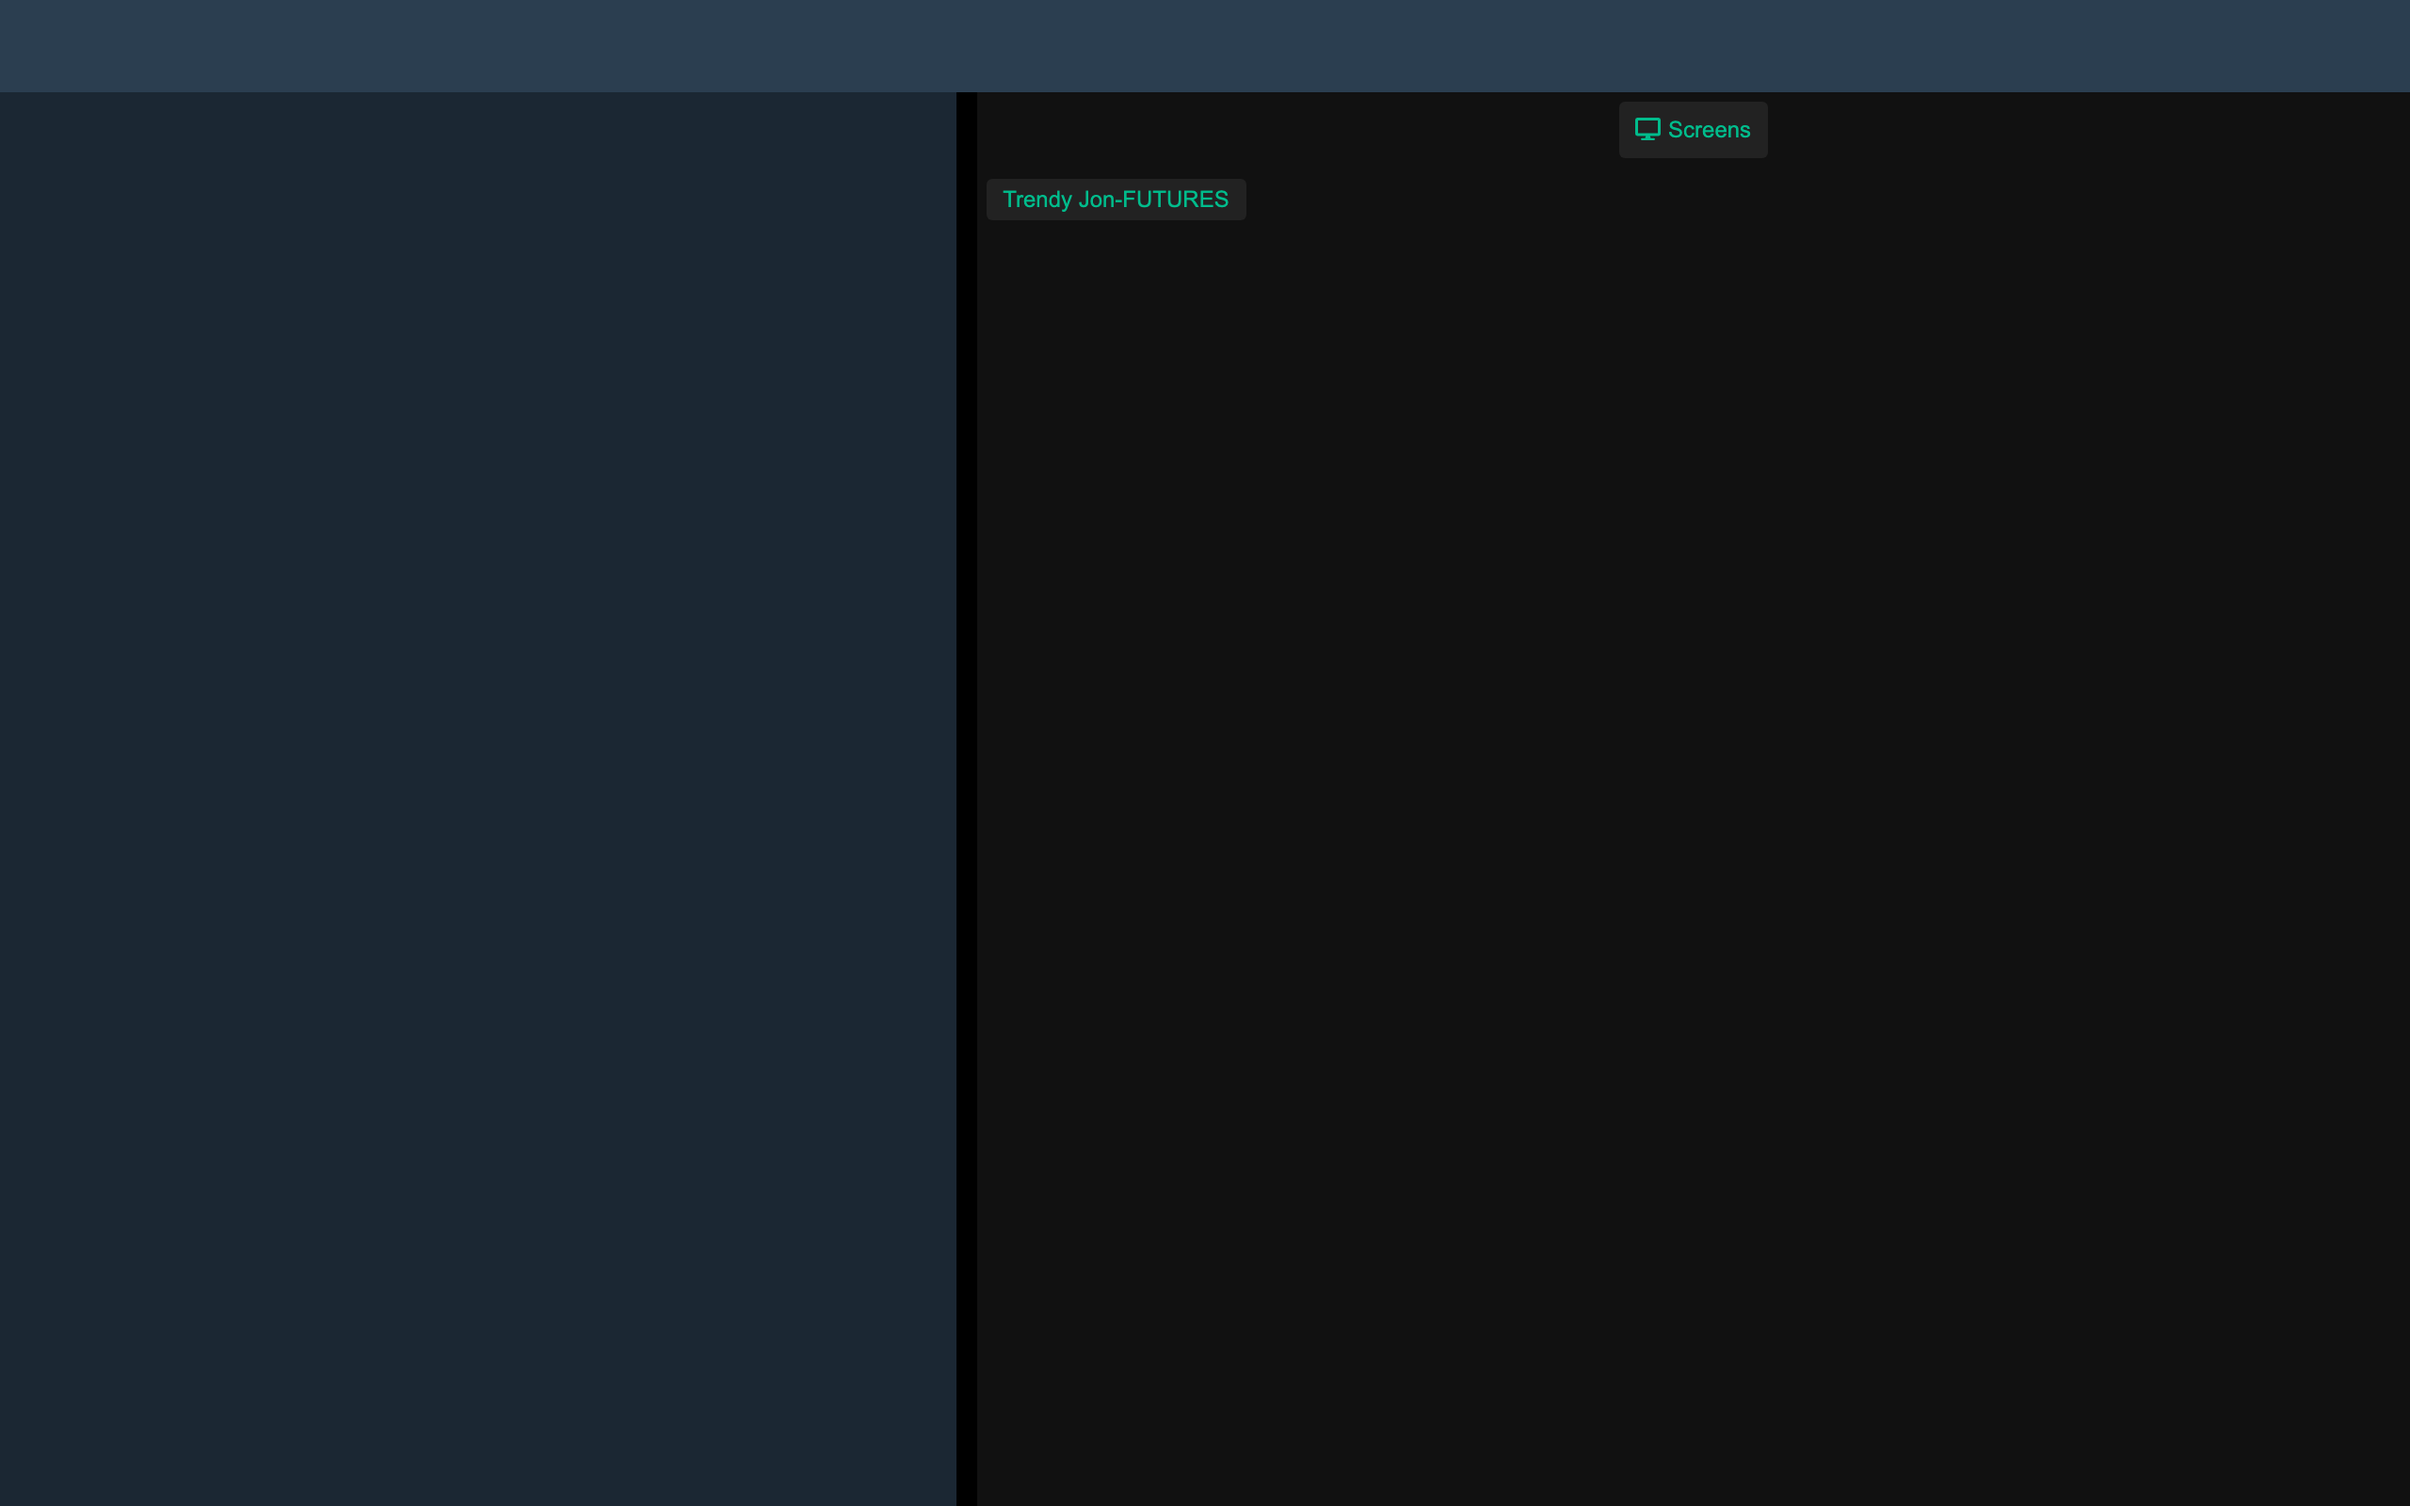
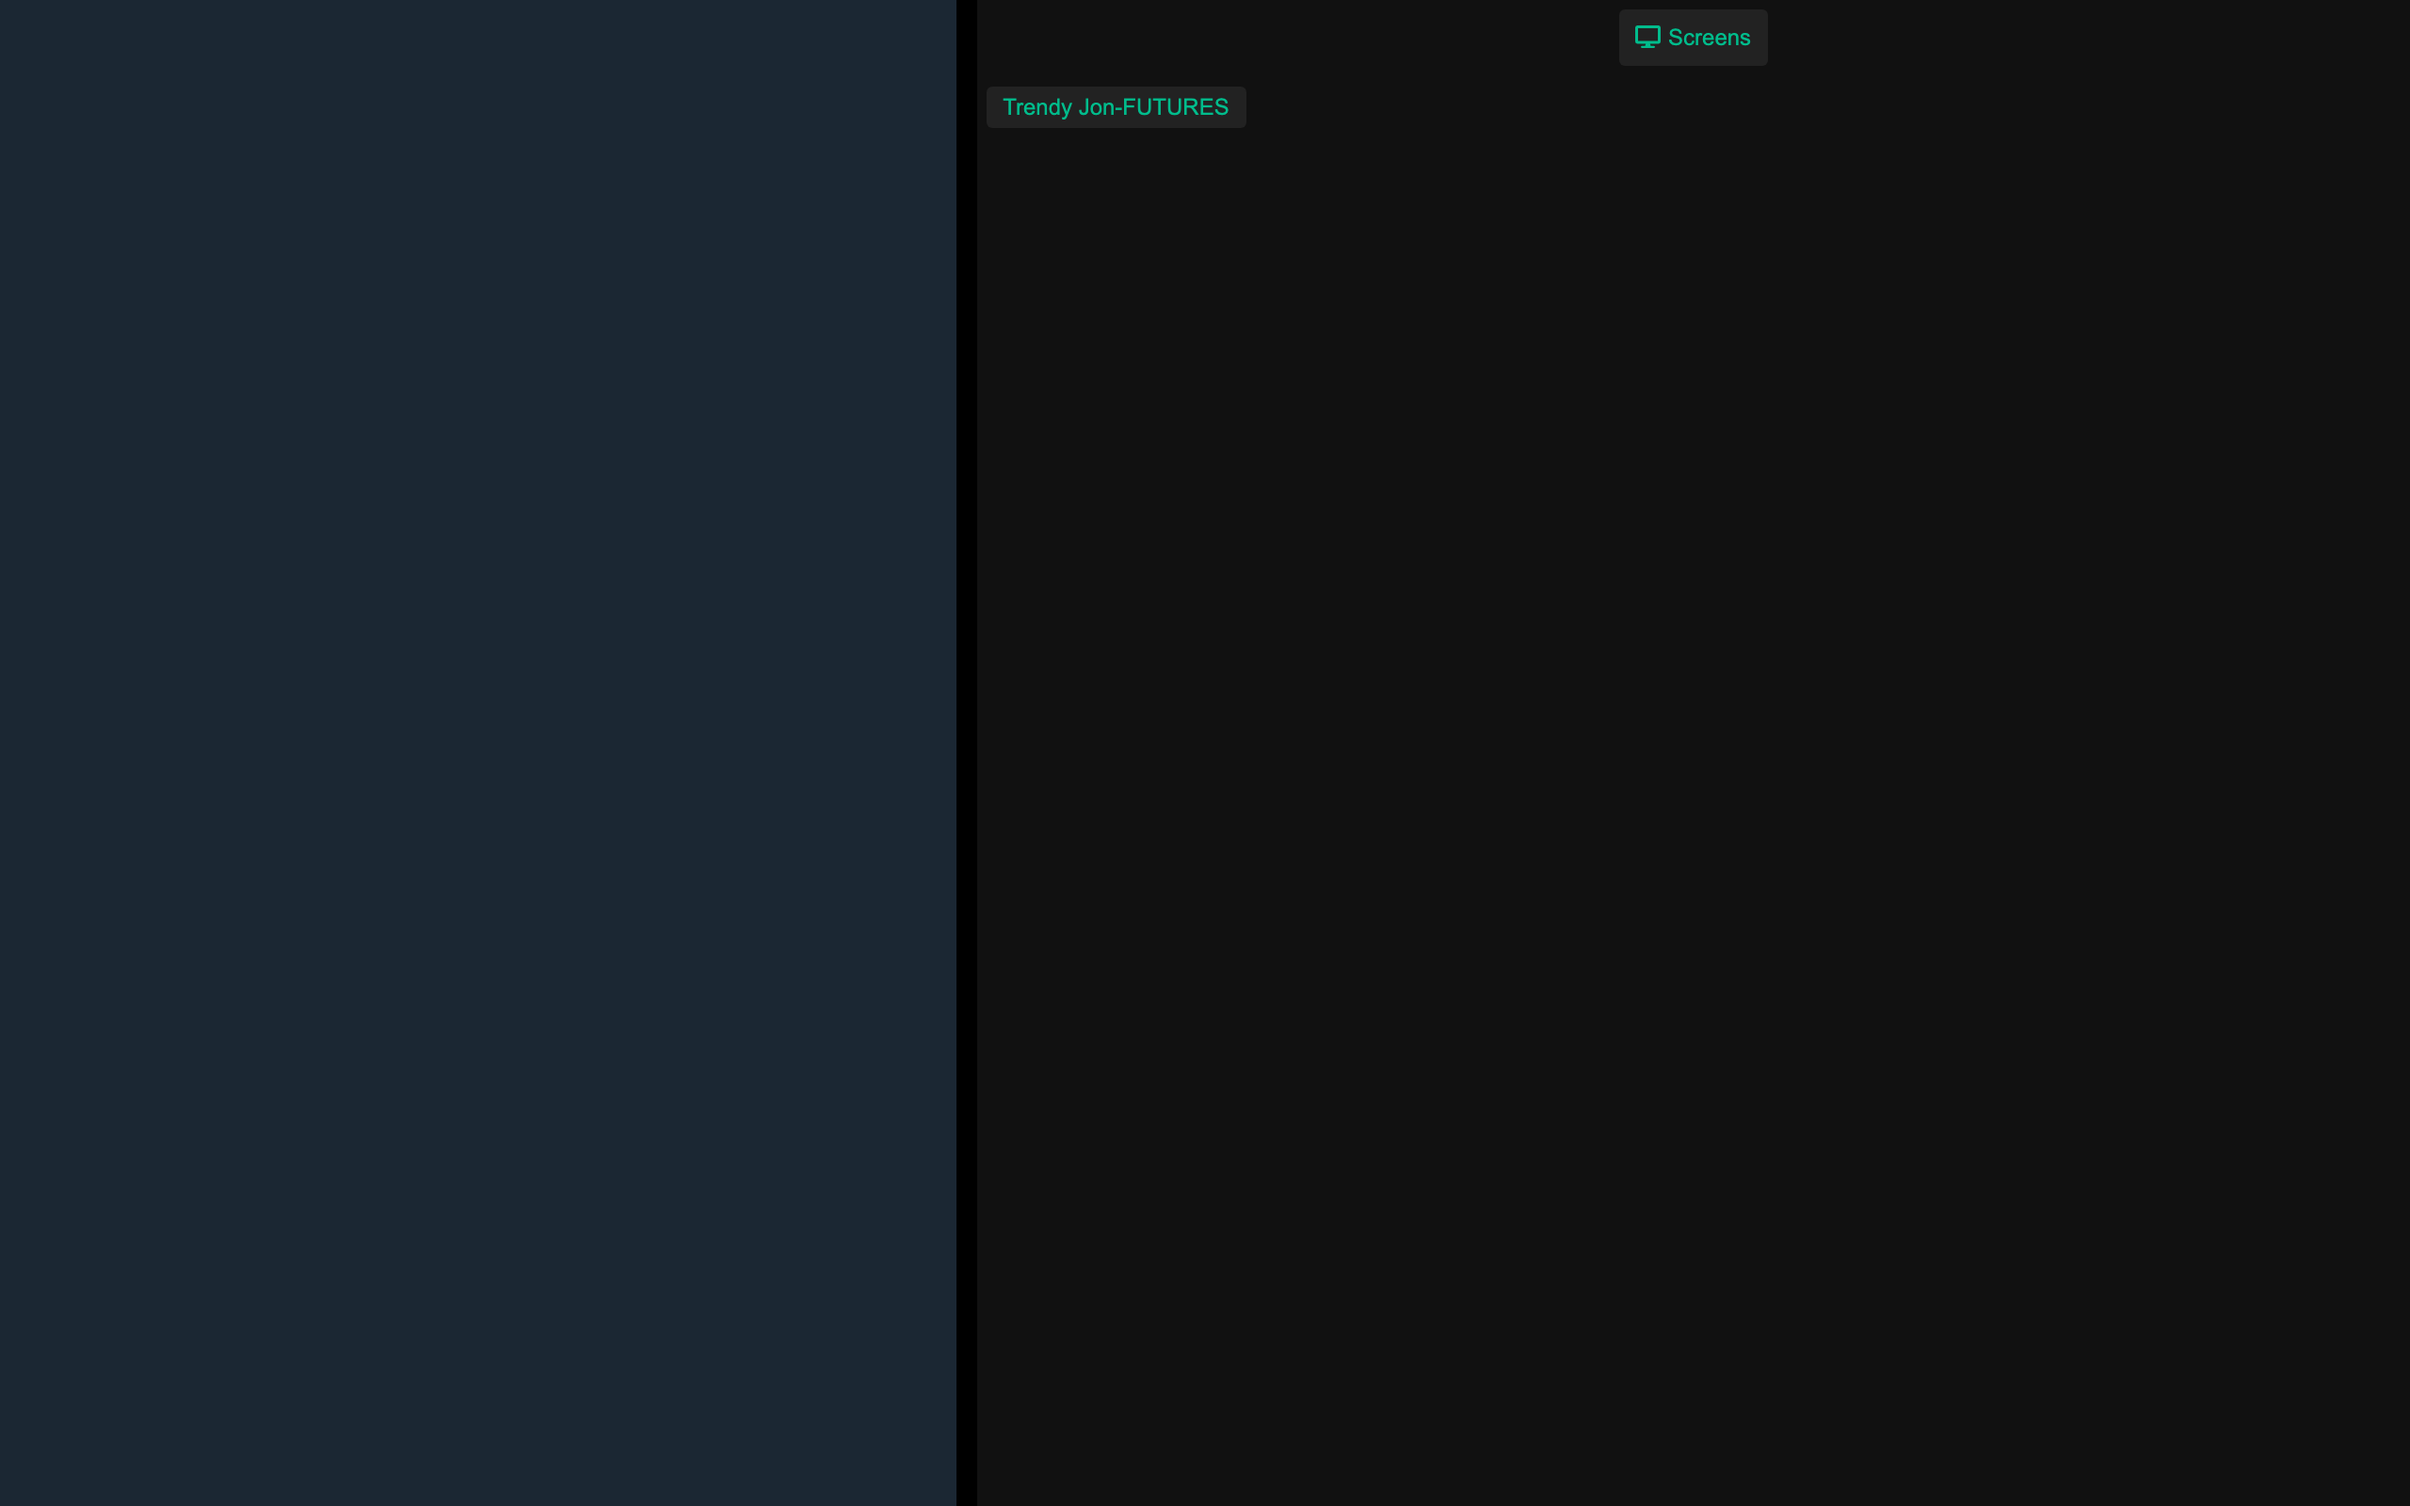
Measure the navbar fix: the harness could not fail on it, and now can
f9e1890 gated the navbar and sidebar on the three modes and bound mt-0, and shipped verified by
svelte-check and prettier only. The reason was this harness: `grep -c
"room-sidebar\|mainAppNav\|mt-0"` over verify-viewer-only-layout.mjs returned 0. Its fixture held
the split, #mainTabs and the video and never the two elements beside them, so 4/4 was green before
the fix and green after it.

The fixture now renders the chrome and four assertions measure it, each tied to the case's identity
rather than to the flag that draws it:

  - navbar ABSENT in viewer-only and chat-only, PRESENT in the full room
    O(4, videoOnlyMode || chatOnlyMode || viewerOnlyMode ? -1 : 4)   app-room.full.js:4043-4059
  - sidebar the same, from O(3, …) — one condition evaluated twice
  - .wrapper computes margin-top 49px in the full room and 0px in both reduced ones
    KAe = (t,n) => ({'push-wrapper': t, 'mt-0': n})                 full.js:4029-4039
    app-room .wrapper { margin-top: 49px }   captured-runtime-components.css:1099-1138
  - nothing ends below the fold — the defect itself, a vh-100 split starting 49px down ending at
    849 in an 800px window

Negative controls, four, each red then restored. Unbinding mt-0 in viewer-only reproduces the
pre-f9e1890 state and names it: "the split ends at 849px in a 800px window — 49px of the room is
off-screen". Keeping the chrome in chat-only reports the navbar and the sidebar separately. In the
[…]

Changed region(s): [[0.0, 0.0, 1.0, 0.0938], [0.4062, 0.125, 0.5, 0.1562]]

diff --git a/apps/room/src/lib/screen-volume-contract.test.ts b/apps/room/src/lib/screen-volume-contract.test.ts
@@ -478,6 +478,54 @@ describe('viewer-only mode drives every binding the reference gives it', () => {
     expect(PAGE).toContain('if (viewerOnlyMode) return;');
   });
 
+  it('removes the navbar and the sidebar, and reclaims the 49px they reserved', () => {
+    const ROOM_FULL = readFileSync(
+      new URL('../../docs/source/components/app-room.full.js', import.meta.url),
+      'utf8'
+    );
+    /*
+      Nodes 3 and 4 of the root template carry the SAME gate — one condition evaluated twice, which
+      is why one `{#if}` covers both here (`app-room.full.js:4043-4059`):
+
+        O(3, videoOnlyMode || chatOnlyMode || viewerOnlyMode ? -1 : 3)   // _Pe = the sidebar
+        O(4, videoOnlyMode || chatOnlyMode || viewerOnlyMode ? -1 : 4)   // A4e = the navbar
+
+      and the root div binds `KAe = (t, n) => ({'push-wrapper': t, 'mt-0': n})` with `n` as that same
+      flag (`:4029-4039`, the helper at `:5`).
+    */
+    const compact = ROOM_FULL.replace(/\s+/g, '');
+    expect(compact).toContain("KAe=(t,n)=>({'push-wrapper':t,'mt-0':n})");
+    expect(
+      compact.match(
+        /O\(\d,o\.appService\.globals\.videoOnlyMode\|\|o\.appService\.globals\.chatOnlyMode\|\|o\.appService\.globals\.viewerOnlyMode\?-1:\d\)/g
+      )?.length,
+      'the sidebar and the navbar carry the same gate, twice'
+    ).toBe(2);
+
+    // `mt-0` is not cosmetic: the 49px is space reserved for the `fixed-top` navbar.
+    const APPLIED = readFileSync(
+      new URL('../../src/lib/styles/captured-runtime-components.css', import.meta.url),
+      'utf8'
+    );
+    // The de-scoped rule's `:not(…)` guard is ~1kB of component names, so the assertion reads the
+    // block after the selector rather than trying to span it with one pattern.
+    const wrapperAt = APPLIED.indexOf('app-room\n  .wrapper:not(:root)');
+    expect(wrapperAt, 'the de-scoped app-room .wrapper rule must exist').toBeGreaterThan(-1);
+    expect(APPLIED.slice(wrapperAt, wrapperAt + 2500)).toContain('margin-top: 49px');
+
+    expect(pageMarkup).toContain('class:mt-0={chatOnlyMode || viewerOnlyMode}');
+    expect(pageMarkup).toContain('{#if !(chatOnlyMode || viewerOnlyMode)}');
+    // And the harness that measures the consequence must actually render those elements — it did
+    // not, which is why `4/4` could not catch the defect this pins.
+    const LAYOUT_HARNESS = readFileSync(
+      new URL('../../scripts/verify-viewer-only-layout.mjs', import.meta.url),
+      'utf8'
+    );
+    for (const token of ['mainAppNav', 'room-sidebar', 'wrapperMarginTop', 'splitBottom']) {
+      expect(LAYOUT_HARNESS, `the layout harness must measure ${token}`).toContain(token);
+    }
+  });
+
   it('gives the split the full viewport height, which is the other half of hiding a column', () => {
     // `QB = (t) => ({'vh-100': t})`, bound to videoOnly || chatOnly || viewerOnly.
     expect(ROOM_HELPERS).toContain("QB = (t) => ({ 'vh-100': t })");

diff --git a/CHANGELOG.md b/CHANGELOG.md
@@ -24,6 +24,47 @@ release, not a reviewable step. Two things follow, and both are conventions of t
 
 ## 2026-08-12
 
+### 2026-08-12 15:22 EDT — The navbar fix now has a render, and the harness can fail on it
+
+**Runtime impact: none** — tests and a harness only. It closes the verification gap `f9e1890` left
+open, which was the second of PR #3's two blockers.
+
+`f9e1890` gated the navbar and the sidebar on the three modes and bound `mt-0`, and shipped
+**verified by `svelte-check` and prettier only**. Its own commit message said so. The reason was
+this harness: `grep -c "room-sidebar\|mainAppNav\|mt-0"` over
+`scripts/verify-viewer-only-layout.mjs` returned **0**. It built a fixture containing the split,
+`#mainTabs` and the video, and never the two elements beside them — so `4/4` was green before the
+fix and green after it, measuring something real, but not the thing that was wrong.
+
+The fixture now renders the chrome, and four assertions measure it, each tied to the case's identity
+rather than to the flag that draws it:
+
+- the navbar is ABSENT in viewer-only and chat-only, PRESENT in the full room —
+  `O(4, videoOnlyMode || chatOnlyMode || viewerOnlyMode ? -1 : 4)` (`app-room.full.js:4043-4059`);
+- the sidebar the same, from `O(3, …)`, which is the same condition evaluated twice;
+- `.wrapper` computes `margin-top: 49px` in the full room and `0px` in both reduced ones —
+  `KAe = (t, n) => ({'push-wrapper': t, 'mt-0': n})` (`:4029-4039`) against
+  `app-room .wrapper { margin-top: 49px }`
+  (`src/lib/styles/captured-runtime-components.css:1099-1138`);
+- **nothing ends below the fold.** This is the defect itself: a `vh-100` split that starts 49px down
+  ends at 849 in an 800px window.
+
+Negative controls, all four red before being restored. Unbinding `mt-0` in the viewer-only case
+reports both halves at once — `.wrapper margin-top is 49px … expected 0px` and **`the split ends at
+849px in a 800px window — 49px of the room is off-screen`**, which is the pre-`f9e1890` state
+reproduced and measured. Keeping the chrome in chat-only reports the navbar and the sidebar
+separately. In the contract test, unbinding `mt-0` and replacing the `{#if}` with `{#if true}` each
+go red.
+
+The contract test also pins the harness itself now: it asserts that
+`verify-viewer-only-layout.mjs` mentions `mainAppNav`, `room-sidebar`, `wrapperMarginTop` and
+`splitBottom`, so a fixture that stops rendering the chrome fails in vitest rather than quietly
+returning to green-and-blind.
+
+**Verified:** 67 tests across the five contracts touching these files; `svelte-check` 972 files, 0
+errors; prettier clean; `verify:viewer-only` **4/4** with the chrome measured; four negative
+controls.
+
 ### 2026-08-12 14:28 EDT — Review corrections: the viewer-only class was on two wrong elements
 
 **Runtime impact: yes.** Three class bindings moved, one added, one attribute determined not to
